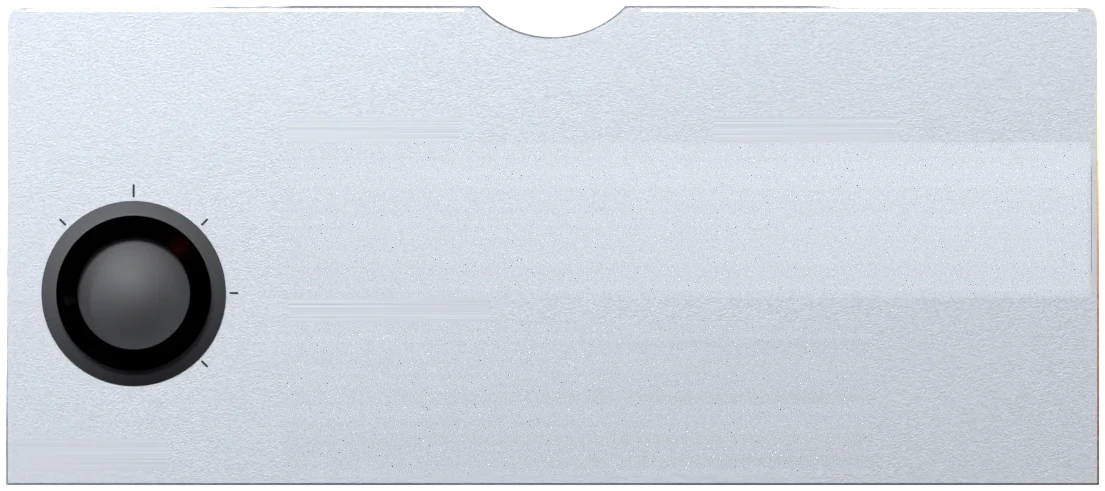
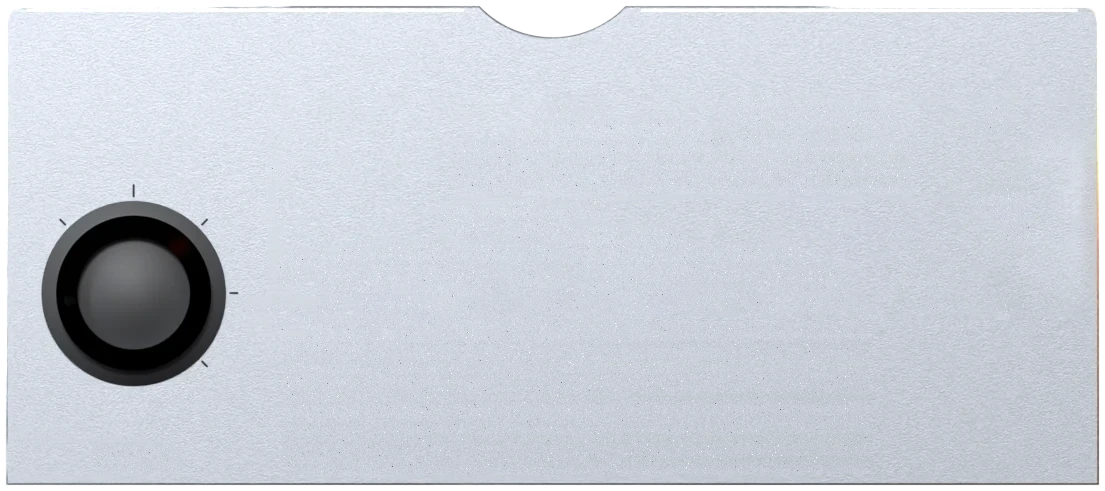
docs: source copy matches the skin source again (an older copy had been written over it), with today's tray fixes

Changed region(s): [[0.8308, 0.3666, 0.8615, 0.3971], [0.7385, 0.336, 0.7692, 0.3666]]

diff --git a/source/sentence-reel/reel.ts b/source/sentence-reel/reel.ts
@@ -35,7 +35,35 @@ export function buildReel(c: ReelController, signal: AbortSignal, rtl: () => boo
   // The baked ring for a 16-sentence film: three static pictures (unplayed, played through a mask, the current notch). Present always, shown and loaded only for 16 notches.
   const ring = el('span', 'sr-ring', { 'aria-hidden': 'true' });
   ring.append(el('i', 'sr-ring-unplayed'), el('i', 'sr-ring-played'), el('i', 'sr-ring-current'));
-  root.append(ring, notches, fine, disc.root, beads);
+  // Smoked glass draws one fine tick per spoken line as vector strokes (hidden on silver by look-smoked.css): every tick the same width, every fifth longer.
+  const SVGNS = 'http://www.w3.org/2000/svg';
+  const ticks = document.createElementNS(SVGNS, 'svg');
+  ticks.setAttribute('class', 'sr-ticks'); ticks.setAttribute('aria-hidden', 'true'); ticks.setAttribute('focusable', 'false'); ticks.setAttribute('viewBox', '-170 -170 340 340');
+  const tickAll = document.createElementNS(SVGNS, 'path'); tickAll.setAttribute('class', 'sr-tk-all');
+  const tickLit = document.createElementNS(SVGNS, 'path'); tickLit.setAttribute('class', 'sr-tk-lit');
+  const tickNow = document.createElementNS(SVGNS, 'path'); tickNow.setAttribute('class', 'sr-tk-now');
+  ticks.append(tickAll, tickLit, tickNow);
+  let tickCount = -1; let tickLine = -1;
+  /** Tick i stands at i steps anticlockwise from the top, so the ring turning clockwise brings line after line under the NOW index. */
+  let longNow = -1;
+  const tickPath = (from: number, to: number, count: number): string => {
+    let d = '';
+    for (let i = from; i < to; i += 1) {
+      const a = (i / count) * 2 * Math.PI; const sx = -Math.sin(a); const cy = -Math.cos(a); const r0 = i % 5 === 0 || longNow === i ? 150 : 156;
+      d += `M${(sx * r0).toFixed(2)} ${(cy * r0).toFixed(2)}L${(sx * 165).toFixed(2)} ${(cy * 165).toFixed(2)}`;
+    }
+    return d;
+  };
+  const drawTicks = (count: number, line: number): void => {
+    if (count !== tickCount) { tickCount = count; tickAll.setAttribute('d', count > 0 ? tickPath(0, count, count) : ''); tickLine = -1; }
+    if (line !== tickLine) {
+      tickLine = line;
+      // The played ticks, and under NOW the current one as a fine full-length needle running on from the index.
+      tickLit.setAttribute('d', count > 0 && line > 1 ? tickPath(0, Math.min(line - 1, count), count) : '');
+      longNow = line - 1; tickNow.setAttribute('d', count > 0 && line > 0 ? tickPath(line - 1, line, count) : ''); longNow = -1;
+    }
+  };
+  root.append(ring, notches, fine, disc.root, beads, ticks);
   let notchEls: HTMLElement[] = [];
   let current = -2;
   let lastNav = 0;
@@ -67,6 +95,8 @@ export function buildReel(c: ReelController, signal: AbortSignal, rtl: () => boo
   let lastNotch = -1;
   /** The notch pressed on (a tap goes to it), or -1 when the press was not on a notch. */
   let tapNotch = -1;
+  let smokedDrag = false;
+  let lastStart = 0;
   let moved = false;
   /** The disc's centre and scale, read once when a press begins (not on every move: a drag must not force a layout per pointer event). */
   let geo: { cx: number; cy: number; perMm: number } | null = null;
@@ -87,14 +117,17 @@ export function buildReel(c: ReelController, signal: AbortSignal, rtl: () => boo
     const at = polar(e);
     const s = c.state();
     if (!at || !s.ready) return;
+    // Smoked glass: one tick per line, NOW at twelve o'clock, the ring turning clockwise as the film plays (earlier lines lie clockwise of NOW).
+    smokedDrag = root.closest('.sr-smoked') !== null;
     const plan = planNotches(s.count);
-    const now = notchOf(plan, s.index);
+    const now = smokedDrag ? s.index : notchOf(plan, s.index);
+    const count = smokedDrag ? s.count : plan.count;
     const inBand = at.mm >= (cssNumber(root, '--band-in') || 61.5) - 2 && at.mm <= (cssNumber(root, '--band-out') || 70.5) + 2;
-    tapNotch = inBand ? notchUnder(at.angle, plan.count, now) : -1;
+    tapNotch = !inBand ? -1 : smokedDrag ? (((Math.round(now - at.angle / (360 / Math.max(1, count)))) % count) + count) % count : notchUnder(at.angle, plan.count, now);   // the line drawn under the pointer, all the way round
     moved = false;
-    drag = new DialDrag(at.angle, now, plan.count);
+    drag = new DialDrag(at.angle, now, count);
     dragPointer = e.pointerId;
-    lastNotch = now;
+    lastNotch = now; lastStart = now;
     try { root.setPointerCapture(e.pointerId); } catch { /* capture is a nicety: the drag still works while the pointer stays on the disc */ }
     root.focus({ preventScroll: true });
     e.preventDefault();
@@ -103,17 +136,18 @@ export function buildReel(c: ReelController, signal: AbortSignal, rtl: () => boo
     if (!drag || e.pointerId !== dragPointer) return;
     const at = polar(e);
     if (!at) return;
-    const notch = drag.move(at.angle);
+    const back = drag.move(at.angle);
+    const notch = smokedDrag ? Math.min(c.state().count - 1, Math.max(0, lastStart + Math.round(drag.turnedPitches))) : back;
     // Turned by more than half a pitch (even if the first or last sentence stops it) is a drag, not a tap.
     if (Math.abs(drag.turnedPitches) >= 0.5) moved = true;
     if (notch === lastNotch) return;
     lastNotch = notch;
-    move(planNotches(c.state().count).firstIndex[notch]);
+    move(smokedDrag ? notch : planNotches(c.state().count).firstIndex[notch]);
   }, { signal });
   const release = (e: PointerEvent): void => {
     if (e.pointerId !== dragPointer) return;
     // A tap: pressed on a notch and let go without turning the reel.
-    if (e.type === 'pointerup' && !moved && tapNotch >= 0) move(planNotches(c.state().count).firstIndex[tapNotch]);
+    if (e.type === 'pointerup' && !moved && tapNotch >= 0) move(smokedDrag ? tapNotch : planNotches(c.state().count).firstIndex[tapNotch]);
     drag = null;
     dragPointer = -1;
     tapNotch = -1;
@@ -173,7 +207,22 @@ export function buildReel(c: ReelController, signal: AbortSignal, rtl: () => boo
       current = now;
       root.style.setProperty('--sr-now', String(Math.max(0, now)));
     }
-    disc.update(s);
+    // The line list is often complete before the media is ready (the seek slots are drawn from it at rest): smoked glass counts from it.
+    const listed = c.sentenceList().length; const lineCount = s.count > 0 ? s.count : listed;
+    disc.update(s, lineCount);
+    drawTicks(lineCount, s.ready && s.count > 0 ? s.index + 1 : 0);
+    // The smoked-glass skin prints "LINE 04 / 86" in its caption window from these two (CSS counters); the silver look does not use them.
+    const host = root.closest<HTMLElement>('.sr-player');
+    if (host && !host.hasAttribute('data-sr-lines')) {
+      // Leave the host's markup as it was found when the player is taken down.
+      host.setAttribute('data-sr-lines', '');
+      signal.addEventListener('abort', () => { host.style.removeProperty('--sr-line'); host.style.removeProperty('--sr-lines'); host.removeAttribute('data-sr-lines'); if (!host.getAttribute('style')) host.removeAttribute('style'); }, { once: true });
+    }
+    if (host) {
+      const line = String(s.ready && s.count > 0 ? s.index + 1 : 0), lines = String(lineCount);
+      if (host.style.getPropertyValue('--sr-line') !== line) host.style.setProperty('--sr-line', line);
+      if (host.style.getPropertyValue('--sr-lines') !== lines) host.style.setProperty('--sr-lines', lines);
+    }
     // The plain layout's progress bar only (hidden in the look): written only when it moves a visible amount.
     const prog = (Math.round(s.progress * 50) / 50).toFixed(2);
     if (fine.style.getPropertyValue('--sr-progress') !== prog) fine.style.setProperty('--sr-progress', prog);

diff --git a/source/sentence-reel/fader.ts b/source/sentence-reel/fader.ts
@@ -24,6 +24,12 @@ const fillOf = (s: Sentence | undefined, time: number): string => {
 };
 const round3 = (n: number): string => String(Math.round(n * MILLIS) / MILLIS);
 
+/** A custom property read as a number (0 when unset). */
+function cssNumber(node: Element, name: string): number {
+  const raw = node.ownerDocument.defaultView?.getComputedStyle(node).getPropertyValue(name).trim() ?? '';
+  return Number.parseFloat(raw) || 0;
+}
+
 /**
  * The fader: the whole timeline as its own slider. One cell per sentence, each as wide as it is long,
  * and a rider that sits at the playhead. The reel stays the by-sentence control; this one moves by seconds.
@@ -36,8 +42,37 @@ export function buildFader(c: ReelController, signal: AbortSignal, rtl: () => bo
   const cells = el('span', 'sr-cells', { 'aria-hidden': 'true' });
   const rider = el('span', 'sr-rider', { 'aria-hidden': 'true' });
   root.append(cells, rider);
+  // Smoked glass draws its 86 evenly spaced slots as one SVG (hidden on silver): every slot one width, each edge on a whole device pixel.
+  const SVGNS = 'http://www.w3.org/2000/svg';
+  const slots = document.createElementNS(SVGNS, 'svg');
+  slots.setAttribute('class', 'sr-slots'); slots.setAttribute('aria-hidden', 'true'); slots.setAttribute('focusable', 'false');
+  const slotPaths = ['sr-sl-edge', 'sr-sl-off', 'sr-sl-hi', 'sr-sl-lit'].map((k) => { const pth = document.createElementNS(SVGNS, 'path'); pth.setAttribute('class', k); slots.append(pth); return pth; });
+  root.append(slots);
+  let slotSig = '';
+  function drawSlots(count: number, index: number): void {
+    if (!root.closest('.sr-smoked') || count <= 0) { if (slotSig) { slotPaths.forEach((pth) => pth.setAttribute('d', '')); slotSig = ''; } return; }
+    const w = root.clientWidth; const units = cssNumber(root, '--fsk') || 612; const sc = w / units;
+    // Device pixels per CSS pixel as actually drawn: the screen's ratio times any scaling the page applies (CSS zoom or transform).
+    const drawn = root.getBoundingClientRect().width; const dpr = (root.ownerDocument.defaultView?.devicePixelRatio || 1) * (w > 0 && drawn > 0 ? drawn / w : 1);
+    const snap = (v: number): number => Math.round(v * dpr) / dpr;
+    const sig = `${count}:${index}:${w}:${dpr.toFixed(4)}`;
+    if (sig === slotSig) return;
+    slotSig = sig;
+    const h = 14 * sc; const pitch = w / count; const sw = Math.max(1 / dpr, snap((cssNumber(root, '--slot-w') || 3.4) * sc));
+    slots.setAttribute('width', String(w)); slots.setAttribute('height', String(h)); slots.setAttribute('viewBox', `0 0 ${w} ${h}`);
+    let edge = ''; let off = ''; let hi = ''; let lit = '';
+    for (let i = 0; i < count; i += 1) {
+      const x = snap(i * pitch); const tall = i === index ? 14 : i % 10 === 0 ? 11 : 8; const sh = snap(tall * sc); const y = snap((h - sh) / 2);
+      edge += `M${x - 1} ${y}h${sw + 2}v${sh}h${-(sw + 2)}z`;
+      const r = `M${x} ${y}h${sw}v${sh}h${-sw}z`;
+      if (index >= 0 && i <= index) lit += r; else { off += r; hi += `M${x} ${y}h${sw}v${snap(Math.max(1 / dpr, sc))}h${-sw}z`; }
+    }
+    slotPaths[0].setAttribute('d', edge); slotPaths[1].setAttribute('d', off); slotPaths[2].setAttribute('d', hi); slotPaths[3].setAttribute('d', lit);
+  }
+  if (typeof ResizeObserver === 'function') { const ro = new ResizeObserver(() => { if (latest) drawSlots(c.sentenceList().length, latest.index); }); ro.observe(root); signal.addEventListener('abort', () => ro.disconnect(), { once: true }); }
   let cellEls: HTMLElement[] = [];
   let ends: number[] = [];
+  let starts: number[] = [];
   let signature = '';
   let userMoved = true;
   let latest: ReelState | null = null;
@@ -56,12 +91,21 @@ export function buildFader(c: ReelController, signal: AbortSignal, rtl: () => bo
   root.addEventListener('blur', () => { userMoved = true; if (latest) update(latest); }, { signal });
   bindScrub(root, signal, (f) => {
     userMoved = true;
-    c.seekToTime((rtl() ? 1 - f : f) * c.state().duration);
+    const g = rtl() ? 1 - f : f;
+    // The smoked-glass skin draws one evenly spaced slot per spoken line, so a point on it means a line (and a place inside that line), not a share of the film.
+    if (root.closest('.sr-smoked') && starts.length > 0) {
+      const at = Math.min(starts.length - 1, Math.max(0, Math.floor(g * starts.length)));
+      const inside = Math.min(1, Math.max(0, g * starts.length - at));
+      c.seekToTime(starts[at] + inside * Math.max(0, ends[at] - starts[at]));
+      return;
+    }
+    c.seekToTime(g * c.state().duration);
   });
 
   function drawCells(list: readonly Sentence[], duration: number): void {
     const widths = list.length > 0 ? list.map((s) => s.end - s.start) : [duration > 0 ? duration : 1];
     ends = list.map((s) => s.end);
+    starts = list.map((s) => s.start);
     const part = Math.max(1, Math.ceil(widths.length / FADER_PARTS));
     cellEls = widths.map((w, i) => {
       const cell = el('span', 'sr-cell');
@@ -80,6 +124,7 @@ export function buildFader(c: ReelController, signal: AbortSignal, rtl: () => bo
       signature = sig;
       drawCells(list, s.duration);
     }
+    drawSlots(list.length, list.length > 0 ? s.index : -1);
     cellEls.forEach((cell, i) => {
       const played = ends.length > 0 && ends[i] <= s.time;
       toggleAttr(cell, 'data-played', played);

diff --git a/source/sentence-reel/drawer.ts b/source/sentence-reel/drawer.ts
@@ -253,19 +253,32 @@ export function buildDrawer(o: DrawerOptions): Drawer {
     pull.setAttribute('aria-expanded', 'true');
     host.setAttribute('data-drawer', 'open');
     // However many rows the media gives the tray (Quality appears with a stream), the SETTINGS tab moves to sit just below it, never under it.
-    doc.defaultView?.setTimeout(() => {
-      if (!isOpen || big()) return;   // full screen: tab and tray sit top right, nothing to move
-      const tray = panel.querySelector('.sr-tray-in')?.getBoundingClientRect() ?? panel.getBoundingClientRect();
-      pull.style.translate = '';
-      const gap = tray.bottom + 6 - pull.getBoundingClientRect().top;
-      if (gap > 0) pull.style.translate = `0 ${Math.ceil(gap)}px`;
-    }, 600);
+    // Placed at once, from the tray's laid-out height (its slide-in is a transform and does not change layout), so the tab is never left over the tiles
+    // while the tray arrives; measured again once the tray has settled, in case a row arrived late.
+    placePull();
+    doc.defaultView?.setTimeout(placePull, 600);
     if (!artStarted) {
       artStarted = true;
       panel.setAttribute('data-art', 'loading');
       Promise.resolve(o.loadArt?.()).then(() => panel.setAttribute('data-art', 'ready'), () => panel.setAttribute('data-art', 'failed'));
     }
   }
+  let pullShift = 0;
+  function placePull(): void {
+    if (!isOpen || big()) return;   // full screen: tab and tray sit top right, nothing to move
+    // Measured on the drawer, which holds still while the tray slides in inside it (their bottoms are the same once it has settled).
+    // Where a page shows the player scaled (a zoomed or transformed preview), drawn pixels and the tab's own pixels differ by that scale.
+    const scale = host.offsetWidth > 0 ? host.getBoundingClientRect().width / host.offsetWidth || 1 : 1;
+    // The tab's resting top is its drawn top less the shift it is showing right now (it may be mid-glide).
+    const shown = parseFloat((doc.defaultView?.getComputedStyle(pull).translate ?? '').split(' ')[1] ?? '0') || 0;
+    const restTop = pull.getBoundingClientRect().top - shown * scale;
+    const gap = Math.ceil((panel.getBoundingClientRect().bottom - restTop) / scale + 6);
+    const next = gap > 0 ? gap : 0;
+    if (next === pullShift) return;
+    pullShift = next;
+    pull.style.translate = next ? `0 ${next}px` : '';
+  }
+  const restPull = (): void => { pullShift = 0; pull.style.translate = ''; };
   let closeTimer: number | undefined;
   function close(): void {
     if (!isOpen) return;
@@ -273,14 +286,14 @@ export function buildDrawer(o: DrawerOptions): Drawer {
     setDeckInert(false);
     if (supportsPopover) { try { (panel as unknown as { hidePopover(): void }).hidePopover(); } catch { /* already hidden */ } }
     pull.setAttribute('aria-expanded', 'false');
-    pull.style.translate = '';
     host.removeAttribute('data-drawer');
     // It slides back down in 240 ms (E) unless motion is reduced (then it just goes).
     const win = doc.defaultView;
     const motion = win?.matchMedia?.('(prefers-reduced-motion: no-preference)').matches === true;
-    if (!motion) { panel.hidden = true; return; }
+    if (!motion) { restPull(); panel.hidden = true; return; }
     panel.setAttribute('data-closing', '');
-    closeTimer = win?.setTimeout(() => { closeTimer = undefined; panel.removeAttribute('data-closing'); if (!isOpen) panel.hidden = true; }, 240);
+    // The tab comes back only once the tray has gone, so it never crosses the tiles on the way.
+    closeTimer = win?.setTimeout(() => { closeTimer = undefined; panel.removeAttribute('data-closing'); if (!isOpen) { panel.hidden = true; restPull(); } }, 240);
   }
   pull.addEventListener('click', () => { if (isOpen) { close(); } else open(); }, { signal });
   // Escape closes from anywhere in the drawer or on the pull, and focus returns to the pull. No trap: Tab is never intercepted.

diff --git a/source/sentence-reel/disc-text.ts b/source/sentence-reel/disc-text.ts
@@ -15,7 +15,7 @@ const GENERIC = 'Turn to seek · one notch · one sentence';
 
 export interface DiscText {
   root: SVGSVGElement;
-  update(state: ReelState): void;
+  update(state: ReelState, lineCount?: number): void;
 }
 
 function readNumber(node: Element, name: string): number {
@@ -63,6 +63,8 @@ export function buildDiscText(host: HTMLElement, signal: AbortSignal, title: str
   const name = make('arc-name', 'sr-disc-name');
   const middle = make('arc-title', 'sr-disc-title');
   const generic = make('arc-generic', 'sr-disc-generic');
+  // Smoked glass only (hidden on silver by look-smoked.css): the line count engraved over the top of the name band, upright.
+  const countLine = make('arc-count', 'sr-disc-count');
   name.along.textContent = SKIN_NAME.toUpperCase();
   generic.along.textContent = GENERIC.toUpperCase();
   const shown = title.trim().slice(0, TITLE_MAX).toUpperCase();
@@ -83,6 +85,9 @@ export function buildDiscText(host: HTMLElement, signal: AbortSignal, title: str
       line.text.setAttribute('font-size', (cap / DEFAULT_CAP_RATIO).toFixed(2));
       lengths.set(line, radius * ((ARC_SPAN_DEGREES * Math.PI) / 180));
     }
+    const top = readNumber(svg, '--arc-count-r') || 36;
+    countLine.path.setAttribute('d', `M ${-top} 0 A ${top} ${top} 0 0 1 ${top} 0`);
+    countLine.text.setAttribute('font-size', ((readNumber(svg, '--arc-count-cap') || 1.7) / DEFAULT_CAP_RATIO).toFixed(2));
     choose();
   }
 
@@ -108,9 +113,13 @@ export function buildDiscText(host: HTMLElement, signal: AbortSignal, title: str
   void host.ownerDocument.fonts?.ready.then(() => { if (!signal.aborted) fit(); });
 
   let last = '';
-  function update(s: ReelState): void {
+  function update(s: ReelState, lineCount = 0): void {
     const count = s.ready && s.totalKnown && s.count > 0 ? `${s.count} ${s.count === 1 ? 'sentence' : 'sentences'}`.toUpperCase() : '';
     const line = [shown, count].filter(Boolean).join(' · ');
+    // Known as soon as the caption list is in, before the media can play, so the engraving is there at rest.
+    const n = s.totalKnown && s.count > 0 ? s.count : lineCount;
+    const lines = n > 0 ? `${n} ${n === 1 ? 'line' : 'lines'} · one notch each`.toUpperCase() : '';
+    if (countLine.along.textContent !== lines) countLine.along.textContent = lines;
     if (line === last) return;
     last = line;
     candidates = [line, count, shown].filter((c, i, all) => c && all.indexOf(c) === i);

diff --git a/source/sentence-reel/window-view.ts b/source/sentence-reel/window-view.ts
@@ -2,7 +2,7 @@ import { el, setAttr } from './dom.ts';
 import { LABELS } from './labels.ts';
 import type { ReelState, WordTiming } from './types.ts';
 import { linesPerPageFor, pageOfWord } from './window-fit.ts';
-import { activeWordIndex, wordTimings } from './words.ts';
+import { activeWordIndex, typeset, wordTimings } from './words.ts';
 
 
 /** Closing punctuation at the end of a sentence. */
@@ -157,7 +157,7 @@ export class SentenceWindow {
     this.spans = timings.map((t, i) => {
       // A full stop at the end of the sentence is not drawn in the window (the board shows none); it stays in the page text for screen readers.
       const tail = i === timings.length - 1 ? SENTENCE_TAIL.exec(t.word) : null;
-      const span = el('span', 'sr-word', {}, tail ? t.word.slice(0, tail.index) : t.word);
+      const span = el('span', 'sr-word', {}, typeset(tail ? t.word.slice(0, tail.index) : t.word));
       if (tail) span.append(el('span', 'sr-stop', {}, tail[0]));
       p.append(span);
       if (i < timings.length - 1) p.append(document.createTextNode(' '));
@@ -218,7 +218,9 @@ export class SentenceWindow {
     const span = this.spans[i]; const sentence = span?.parentElement;
     if (span && sentence && typeof span.getBoundingClientRect === 'function' && span.isConnected) {
       const r = span.getBoundingClientRect(); const base = sentence.getBoundingClientRect();
-      if (r.width > 0) { left = r.left - base.left; width = r.width; }
+      // Boxes come back in screen pixels; the underline moves in the sentence's own pixels. They differ when a page scales the player (CSS zoom or a transform).
+      const k = sentence.offsetWidth > 0 && base.width > 0 ? base.width / sentence.offsetWidth : 1;
+      if (r.width > 0) { left = (r.left - base.left) / k; width = r.width / k; }
     }
     if (i < 0 || left === undefined || width === undefined || top === undefined || !(width > 0)) { ul.setAttribute('data-off', ''); return; }
     const pitch = m?.linePitch ?? m?.lineHeight ?? 0;

diff --git a/source/sentence-reel/mount.ts b/source/sentence-reel/mount.ts
@@ -64,6 +64,10 @@ export function mountSentenceReel(host: HTMLElement, media: HTMLMediaElement, op
   const title = options.title ?? host.getAttribute('reel-title') ?? media.getAttribute?.('reel-title') ?? '';
   const art = buildArt();
   const controls = buildControls(controller, signal, rtl, title);
+  // Smoked glass on a desktop-width player: Tab follows the face (key row, then the reel at the right). Watches the skin class and the width.
+  const syncRow = (): void => controls.smokedRow(host.classList.contains('sr-smoked') && host.getBoundingClientRect().width >= 760);
+  if (typeof MutationObserver === 'function') { const mo = new MutationObserver(syncRow); mo.observe(host, { attributes: true, attributeFilter: ['class'] }); signal.addEventListener('abort', () => mo.disconnect(), { once: true }); }
+  if (typeof ResizeObserver === 'function') { const ro = new ResizeObserver(syncRow); ro.observe(host); signal.addEventListener('abort', () => ro.disconnect(), { once: true }); }
   const sentenceWindow = new SentenceWindow(title);
   // One caption: the dot window is it. The picture never draws the text track (the guard hides its drawing; the track still loads and stays for assistive tech).
   // In full screen, only while the deck is hidden, a strip of the same dots carries the sentence on the picture.
@@ -107,7 +111,8 @@ export function mountSentenceReel(host: HTMLElement, media: HTMLMediaElement, op
 
   sentenceWindow.watch(signal);
   strip.watch(signal);
-  host.classList.add('sr-player', 'sr-look');
+  // Two skins: silver (the default, .sr-look) and smoked glass (skin="smoked" on the player, .sr-smoked). Same parts and behaviour, different look.
+  host.classList.add('sr-player', host.getAttribute('skin') === 'smoked' ? 'sr-smoked' : 'sr-look');
   host.tabIndex = -1;
   if (!restore.role) host.setAttribute('role', 'group');
   if (!restore.label) host.setAttribute('aria-label', LABELS.player);

diff --git a/source/sentence-reel/controls.ts b/source/sentence-reel/controls.ts
@@ -16,6 +16,8 @@ export interface Controls {
   /** The Play key: where focus goes back to after the message is dismissed. */
   hub: HTMLButtonElement;
   update(state: ReelState): void;
+  /** Tab order for the smoked-glass desktop layout, where Repeat and Next sit in the key row and the reel stands at the right: true moves them there, false restores silver's order. */
+  smokedRow(on: boolean): void;
 }
 
 /** `sign` is drawn before the digits (the minus of the remaining time); `after` is spoken after them. */
@@ -124,5 +126,12 @@ export function buildControls(c: ReelController, signal: AbortSignal, rtl: () =>
     paintTime(s);
   }
 
-  return { root, reel: reel.root, wait, full, hub, update };
+  let rowOn = false;
+  function smokedRow(on: boolean): void {
+    if (on === rowOn) return;
+    rowOn = on;
+    if (on) { keys.prepend(again, next); root.insertBefore(reelGroup, keys.nextSibling); }
+    else { reelGroup.prepend(again); reelGroup.insertBefore(next, hub); root.insertBefore(reelGroup, keys); }
+  }
+  return { root, reel: reel.root, wait, full, hub, update, smokedRow };
 }

diff --git a/source/sentence-reel/words.ts b/source/sentence-reel/words.ts
@@ -24,3 +24,19 @@ export function activeWordIndex(timings: readonly WordTiming[], t: number): numb
   for (let i = timings.length - 1; i >= 0; i--) if (t >= timings[i].start) return i;
   return -1;
 }
+
+/** Word-initial apostrophes that stand for missing letters ('cause, 'em), so they keep the apostrophe shape. */
+const ELISION = /^'(?=(?:em|til|cause|bout|round|n|tis|twas|s)\b)/i;
+
+/**
+ * Typographer's quotes for one displayed word (owner, 14 Nov 2026: curly, as in the approved render).
+ * Subtitle files carry straight ' and "; the window shows ’ ‘ “ ”. Screen-reader text is left as the file has it.
+ */
+export function typeset(word: string): string {
+  return word
+    .replace(ELISION, '\u2019')
+    .replace(/^'/, '\u2018')
+    .replace(/'/g, '\u2019')
+    .replace(/^"/, '\u201C')
+    .replace(/"/g, '\u201D');
+}

diff --git a/source/sentence-reel/skin.ts b/source/sentence-reel/skin.ts
@@ -7,3 +7,4 @@ import './ember-layers.css';
 import './look.css';
 import './look-f.css';
 import './tray-layout.css';
+import './look-smoked.css';
